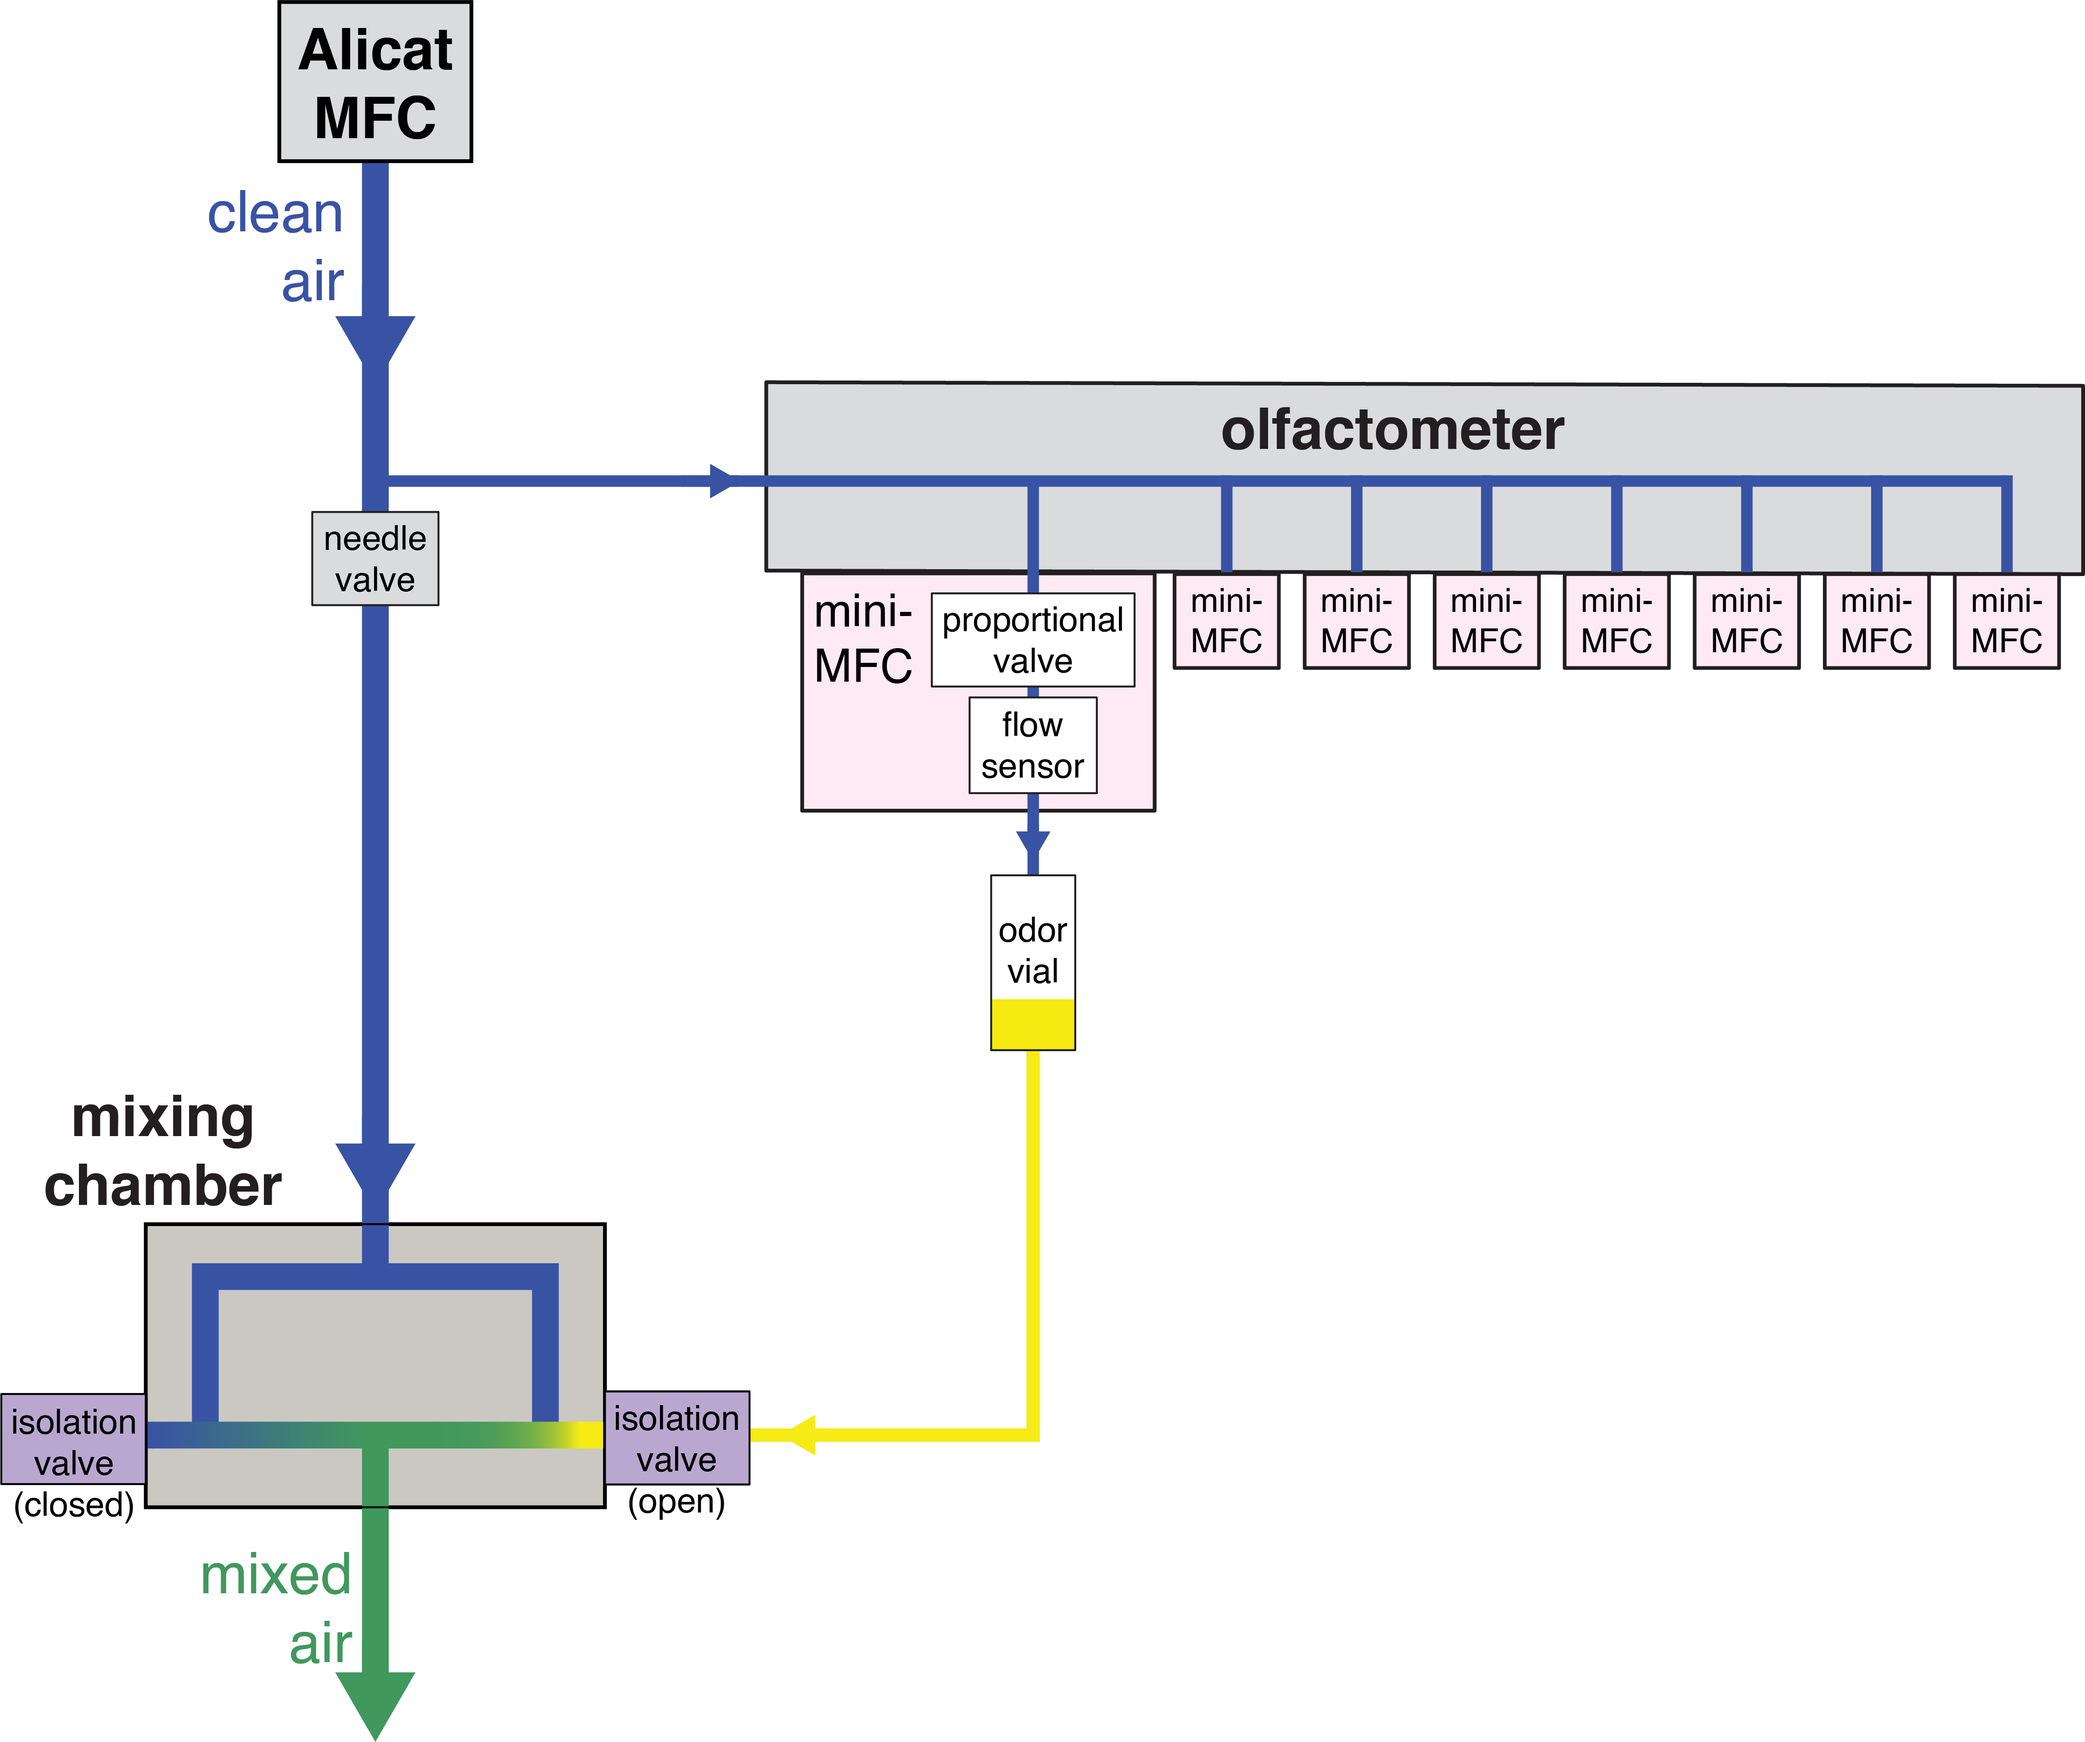
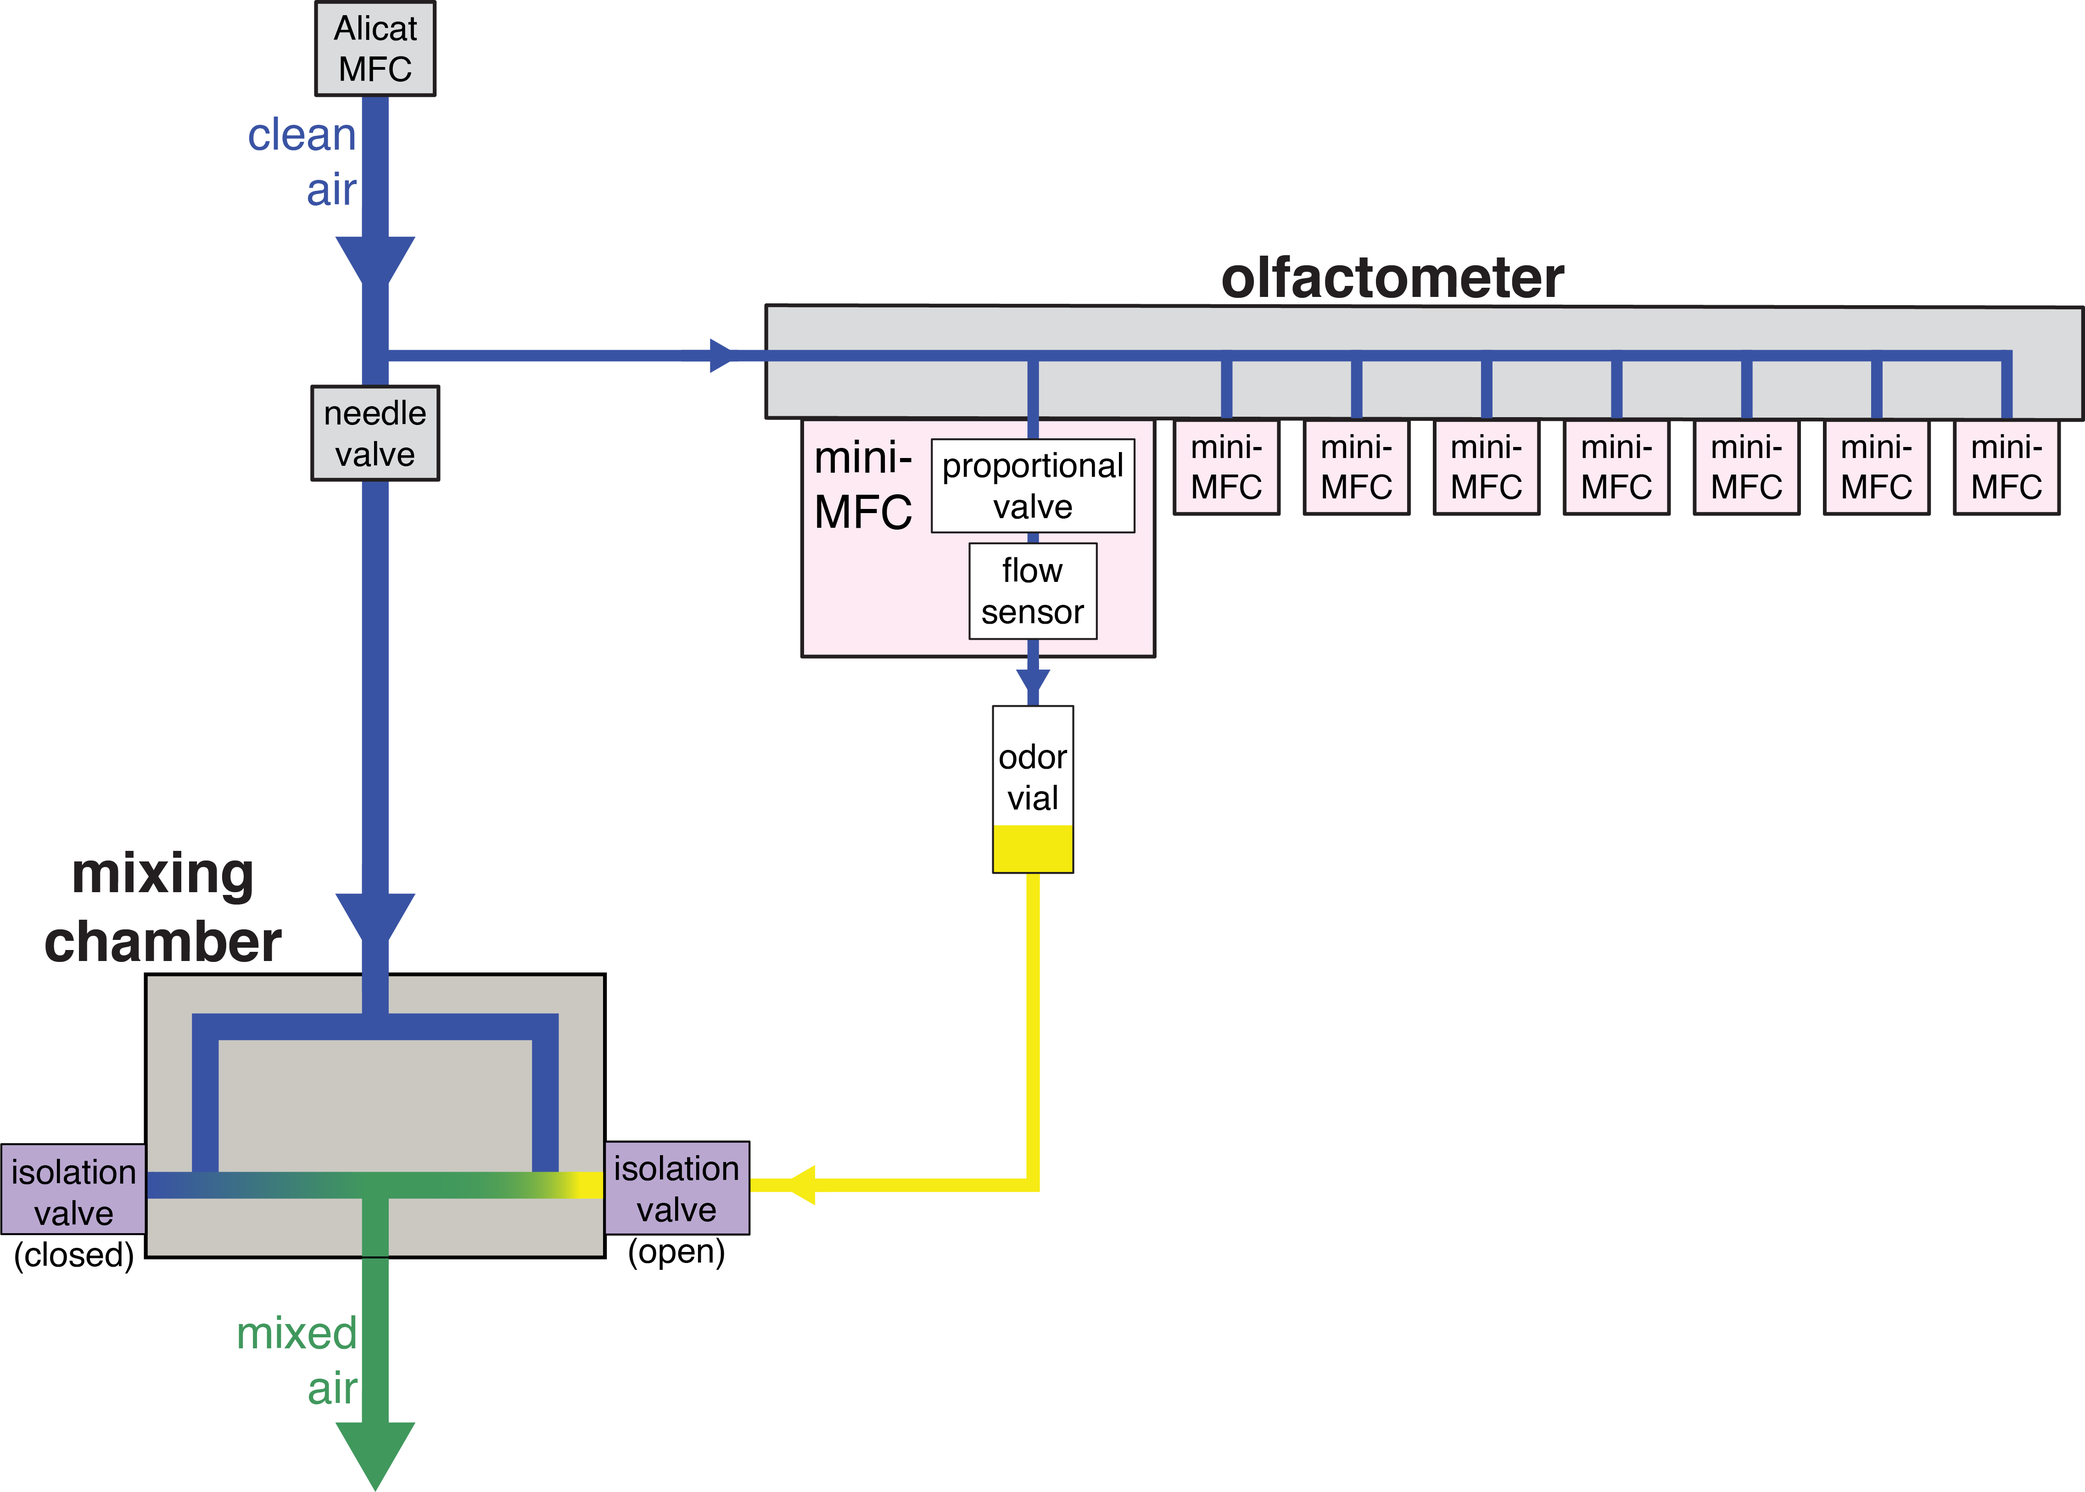
Minor updates to Full System Schematic
Updated to v09

diff --git a/README.md b/README.md
@@ -1,19 +1,16 @@
 # OlfaControl_Electronics
 
-## Full System
-<p align="center">
-  <img src="images/olfa_full_labeled.png" width="40%">
-</p>
+## Full System Overview
 
-<p align="center">
-  <img src="images/Full System Schematic.png" width="80%">
-</p>
+<p align="center"><img src="images/olfa_full_labeled.png" width="40%"></p>
+<br>
 
-<br><br>
+<p align="center"><img src="images/Full System Schematic.png" width="70%"></p>
+<br>
 
 
 
-## Full System - Simplified:
+#### Simplified:
 
 <p align="center">
   <img src="images/Full%20System%20Schematic_simplified-clean%20air.png" width="40%">
